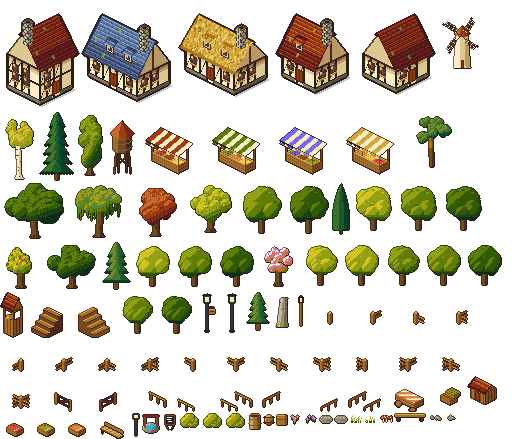
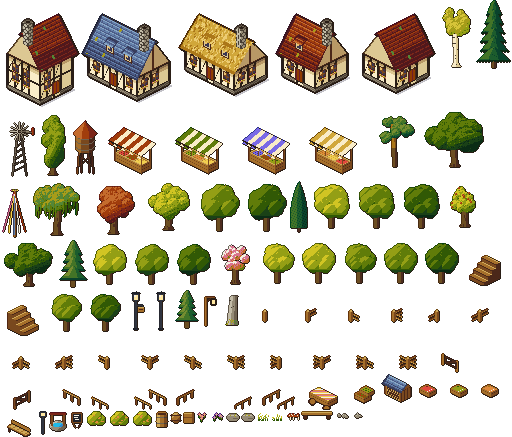
Cottage twins: water tower, windpump, woodshed, hanging lantern, standing stone, maypole (twins builder pick)
Parity: ground 0 x 4, shadows 0, landmarks 0.

diff --git a/art/landmarks.py b/art/landmarks.py
@@ -13,8 +13,9 @@ from dualgrid import h
 from sprites import Sprite, rng, tight
 
 NAMES = ["tank", "pylon", "station", "street-pole", "monument", "mast"]
-TWINS = {"tank": "water-tower", "pylon": "windmill", "station": "shed", "street-pole": "lantern-post",
-         "monument": "standing-stone", "mast": "bell-tower"}
+# picked 2026-10-12 (cottage twins builder)
+TWINS = {"tank": "water-tower", "pylon": "windpump", "station": "woodshed", "street-pole": "hanging-lantern",
+         "monument": "standing-stone", "mast": "maypole"}
 OVERRIDE = None          # a theme's {name: () -> Sprite}
 
 
